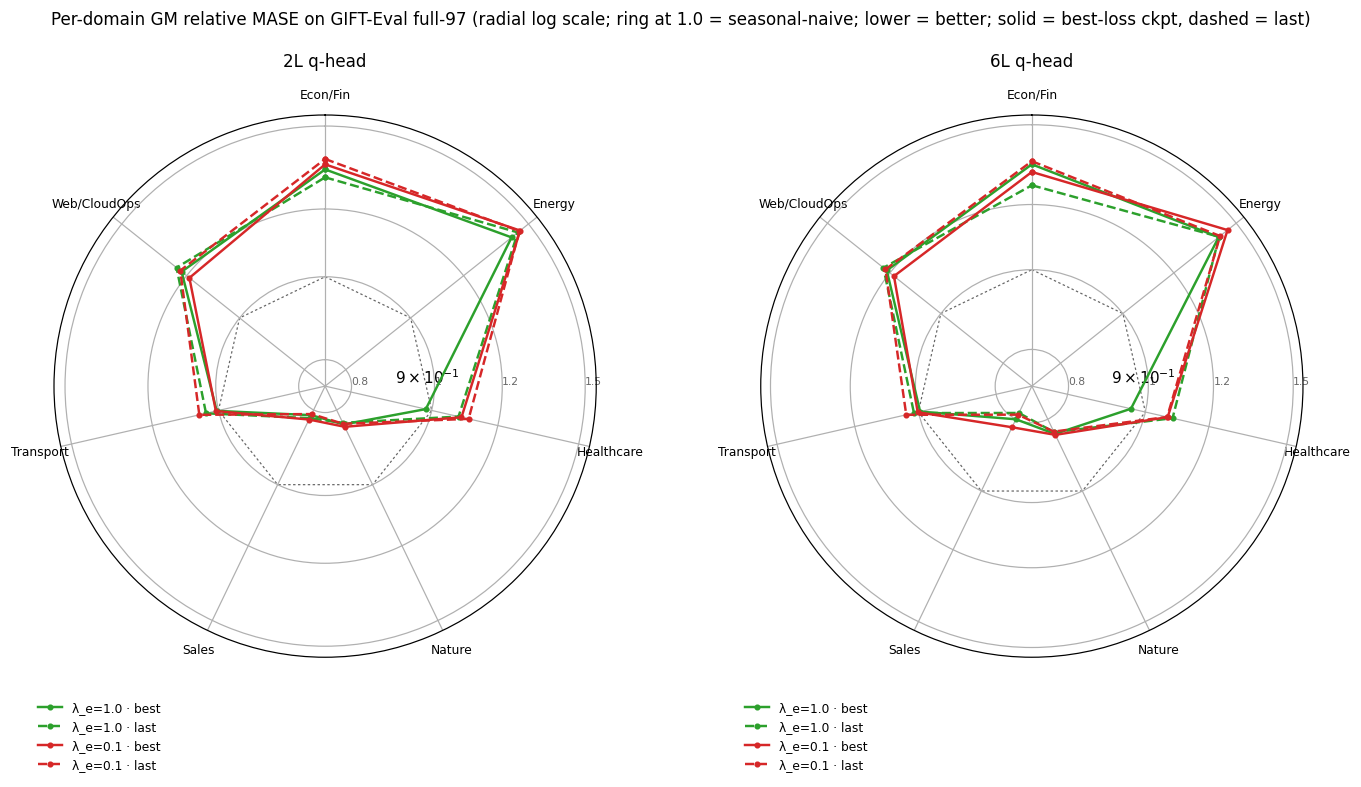
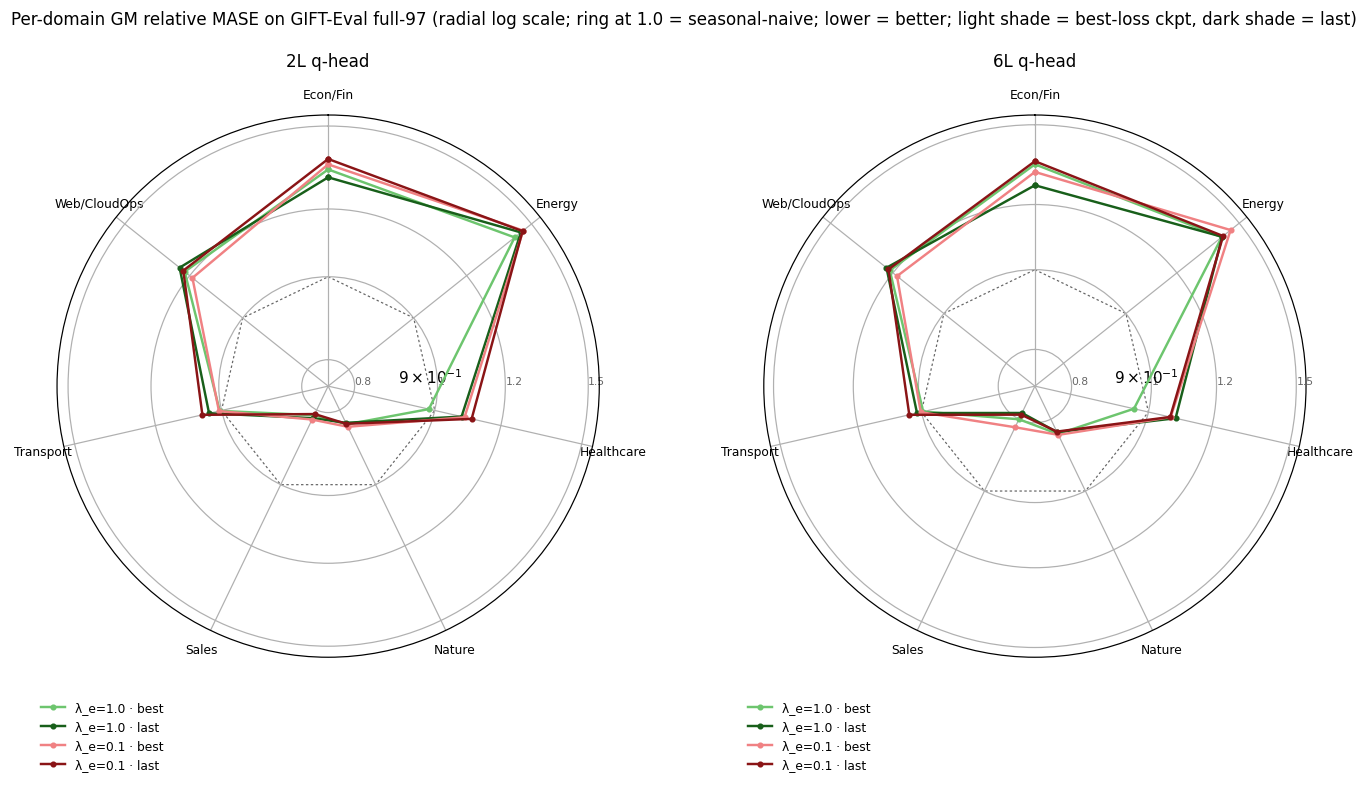
exp(#359): address PR #361 iter-11 review — 4-colour radar palette, annex trimmed of journey content

diff --git a/reports/2026-06-22_lejepa_sigreg_emb10/scripts/build_report.py b/reports/2026-06-22_lejepa_sigreg_emb10/scripts/build_report.py
@@ -384,16 +384,17 @@ def plot_perdomain_radar(
     out: Path,
 ):
     """2 panels (2L | 6L), 4 curves each (λ_e ∈ {1.0, 0.1} × {best, last}).
-    Solid = best-loss ckpt, dashed = last ckpt. Radial log scale; ring at 1.0
-    marks seasonal-naive parity; lower = better. Lifted from the parent SIGReg
-    report's `plot_perdomain_radar`, narrowed to the two SIGReg arms."""
+    Palette: light-red (λ_e=0.1, best) / dark-red (λ_e=0.1, last) /
+    light-green (λ_e=1.0, best) / dark-green (λ_e=1.0, last). Radial log scale;
+    ring at 1.0 marks seasonal-naive parity; lower = better."""
     HEADS = ["2L", "6L"]
-    RED, GREEN = ARM_COLOR["sigreg01_enc3"], ARM_COLOR["sigreg10_enc3"]
+    LIGHT_RED, DARK_RED   = "#f08183", "#8a1416"
+    LIGHT_GREEN, DARK_GREEN = "#6dc56e", "#185f1a"
     CURVES = [  # (root, tag, suf, colour, linestyle, label)
-        (sig10_results, sig10_tag, "",      GREEN, "-",  "λ_e=1.0 · best"),
-        (sig10_results, sig10_tag, "_last", GREEN, "--", "λ_e=1.0 · last"),
-        (sig01_results, sig01_tag, "",      RED,   "-",  "λ_e=0.1 · best"),
-        (sig01_results, sig01_tag, "_last", RED,   "--", "λ_e=0.1 · last"),
+        (sig10_results, sig10_tag, "",      LIGHT_GREEN, "-", "λ_e=1.0 · best"),
+        (sig10_results, sig10_tag, "_last", DARK_GREEN,  "-", "λ_e=1.0 · last"),
+        (sig01_results, sig01_tag, "",      LIGHT_RED,   "-", "λ_e=0.1 · best"),
+        (sig01_results, sig01_tag, "_last", DARK_RED,    "-", "λ_e=0.1 · last"),
     ]
     fig, axes = plt.subplots(1, 2, figsize=(13, 7), subplot_kw=dict(polar=True))
     for ax, head in zip(axes, HEADS):
@@ -432,7 +433,7 @@ def plot_perdomain_radar(
     fig.suptitle(
         "Per-domain GM relative MASE on GIFT-Eval full-97 "
         "(radial log scale; ring at 1.0 = seasonal-naive; lower = better; "
-        "solid = best-loss ckpt, dashed = last)", fontsize=11)
+        "light shade = best-loss ckpt, dark shade = last)", fontsize=11)
     fig.tight_layout(rect=[0, 0.03, 1, 0.93])
     fig.savefig(out, dpi=110, bbox_inches="tight"); plt.close(fig)
 

diff --git a/reports/2026-06-22_lejepa_sigreg_emb10/lejepa_sigreg_emb10.md b/reports/2026-06-22_lejepa_sigreg_emb10/lejepa_sigreg_emb10.md
@@ -15,7 +15,7 @@ In the prior `λ_e=λ_h=0.1` SIGReg arm the embedding-side regulariser contribut
 
 Point Δ_GM (this arm − prior arm) is negative in all 4 (q-head depth, backbone-checkpoint) cells (range `[−0.014, −0.007]`); all 4 paired-bootstrap 95% CIs include zero (P(Δ<0) range `[0.83, 0.95]`).
 
-![Per-domain GM-Rel MASE on GIFT-Eval full-97 — 2 panels (2L | 6L q-head), 4 curves per panel: λ_e=1.0 (green) vs λ_e=0.1 (red), solid = best-loss ckpt, dashed = last; radial log scale, ring at 1.0 = seasonal-naive parity, lower = better.](plots/perdomain_radar.png)
+![Per-domain GM-Rel MASE on GIFT-Eval full-97 — 2 panels (2L | 6L q-head), 4 curves per panel: λ_e=1.0 (greens) vs λ_e=0.1 (reds), light shade = best-loss ckpt, dark shade = last; radial log scale, ring at 1.0 = seasonal-naive parity, lower = better.](plots/perdomain_radar.png)
 
 Per-domain curves of the two arms overlap on every domain at both q-head depths; no domain shows a separation visibly larger than the cross-ckpt within-arm gap.
 
@@ -79,9 +79,10 @@ Each backbone checkpoint (`best` = best train-loss, `last` = step 12 500) trains
 
 ### A. Plot provenance
 
-- **Sources.** Training CSV `runs/bb_allt08_xftrip_nobn_enc3_emateach_sigreg_qk_aon_b512_cpc_emb10_losses.csv` (12 500 rows, seed `20260520`). `λ_e=λ_h=0.1` overlay reads `reports/2026-06-20_lejepa_sigreg/runs/bb_allt08_xftrip_nobn_enc3_emateach_sigreg_qk_aon_b512_cpc_losses.csv` and its matching GIFT-Eval summary tree. Reference GMs transcribed as constants in [`scripts/build_report.py`](scripts/build_report.py).
+- **Sources.** Training CSV `runs/bb_allt08_xftrip_nobn_enc3_emateach_sigreg_qk_aon_b512_cpc_emb10_losses.csv` (12 500 rows, seed `20260520`). `λ_e=λ_h=0.1` overlay reads `reports/2026-06-20_lejepa_sigreg/runs/bb_allt08_xftrip_nobn_enc3_emateach_sigreg_qk_aon_b512_cpc_losses.csv` and its matching GIFT-Eval summary tree.
 - **Bootstrap.** Paired bootstrap on the 97 per-config rel-MASE values, B=10 000, seed 20260622, statistic = `mean(log(rel_A) − log(rel_B))`, converted to absolute GM-Rel MASE scale. Per-cell rows in `results/bootstrap_ci.csv`.
-- **Colour map.** grey = enc3+CPC B=1024; blue = EMA-target enc3+CPC B=1024; red = SIGReg `λ_e=λ_h=0.1` B=512; green = SIGReg `λ_e=1.0, λ_h=0.1` B=512.
+- **Colour map (bar chart).** grey = enc3+CPC B=1024; blue = EMA-target enc3+CPC B=1024; red = SIGReg `λ_e=λ_h=0.1` B=512; green = SIGReg `λ_e=1.0, λ_h=0.1` B=512.
+- **Colour map (radar).** light-red / dark-red = SIGReg `λ_e=λ_h=0.1` B=512 best / last ckpt; light-green / dark-green = SIGReg `λ_e=1.0, λ_h=0.1` B=512 best / last ckpt.
 
 ### B. Trajectory means — Early-50, Tail-50, and within-arm delta
 
@@ -126,6 +127,6 @@ Each backbone checkpoint (`best` = best train-loss, `last` = step 12 500) trains
 | `λ_e · L_SIGReg(e_t) / loss` | +2.00e-4 | +1.56e-4 |
 | total `loss` | +0.0020 | +0.3011 |
 
-### C. GIFT-Eval wrapper emits only GM-Rel MASE
+### C. Metric scope
 
-`scripts/run_gift_eval_full.sh` emits only `Aggregate GM-Relative MASE (97 configs)` per `summary.txt`; the per-config CSV does not carry the seasonal-naive denominators needed for GM-MASE / GM-MAPE_SN / GM-CRPS_SN.
+Reported GIFT-Eval aggregate: GM-Rel MASE only. GM-MASE, GM-MAPE_SN, and GM-CRPS_SN are out of scope — the per-config evaluation output does not carry the seasonal-naive denominators required to compute them.
